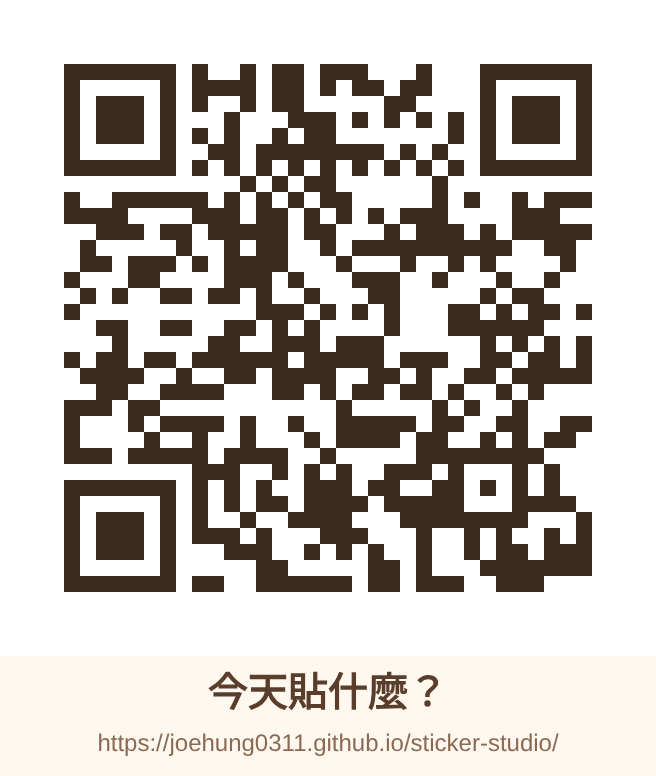
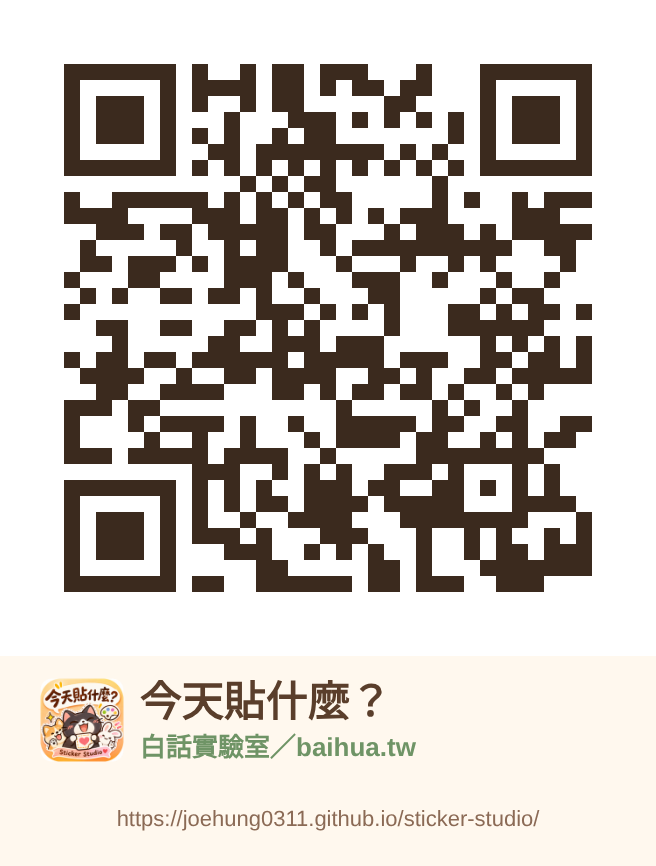
v1.1.2: 品牌標示統一為「白話實驗室／baihua.tw」
Claude-Session: https://claude.ai/code/session_01PSwew9uGDS18EkNQb43D9u

diff --git a/js/views.js b/js/views.js
@@ -24,6 +24,7 @@
           <h1>今天貼什麼？</h1>
           <p class="hero-en">Sticker Studio</p>
           <p class="slogan">生活有百種心情，貼圖不必只有一種。</p>
+          <p class="brand-by">白話實驗室 出品・baihua.tw</p>
         </div>
       </section>
       <div class="flow" aria-label="創作流程">
@@ -522,7 +523,7 @@
         <p class="slogan">生活有百種心情，貼圖不必只有一種。</p></div>
       <div class="card"><p>讓不會畫畫、不懂設計的人，也能輕鬆規劃、生成及加工個人專屬聊天貼圖。</p>
         <p>本 App 負責「規劃」與「加工」：幫你把想法整理成清楚的 AI 生圖提示詞，再把生成的圖片裁切、加字、去背、切成 LINE 貼圖尺寸。</p>
-        <p>品牌：白話實驗室（baihua.tw）</p>
+        <p>出品：<b>白話實驗室／baihua.tw</b></p>
         <p class="muted small">使用的開源套件：JSZip（MIT 授權）、qrcode-generator（MIT 授權），皆已內建，不需連線外部服務。</p></div>`;
     }
   };
@@ -550,7 +551,7 @@
         <li>照片變貼圖、原創角色、8 種畫風＋自訂畫風</li><li>64 句生活用語、貼圖盲盒（可鎖定）</li>
         <li>整套企劃 1～40 張、TXT／CSV／JSON 匯出、宮格提示詞</li><li>貼圖加工室：裁切、縮放、旋轉、翻轉、加字、單色去背、PNG 輸出</li>
         <li>LINE 工具：宮格切圖、ZIP 打包、尺寸調整、主圖與標籤圖、規格檢查</li><li>收藏管理、備份匯出匯入、PWA 離線使用、QR Code 分享</li></ul>
-        <p class="muted small">Made by baihua</p></div>`;
+        <p class="muted small">Made by 白話實驗室／baihua.tw</p></div>`;
     }
   };
   SS.views.share = {

diff --git a/index.html b/index.html
@@ -8,6 +8,8 @@
 <meta name="theme-color" content="#FFF8EE">
 <meta property="og:title" content="今天貼什麼？AI 貼圖製造機">
 <meta property="og:description" content="生活有百種心情，貼圖不必只有一種。">
+<meta property="og:site_name" content="白話實驗室／baihua.tw">
+<meta name="author" content="白話實驗室／baihua.tw">
 <meta property="og:image" content="assets/icons/icon-512.png">
 <link rel="manifest" href="manifest.webmanifest">
 <link rel="icon" type="image/png" sizes="32x32" href="assets/icons/icon-32.png">
@@ -28,8 +30,8 @@
 </header>
 <main id="view" class="view" tabindex="-1"></main>
 <footer class="footer">
-  <p>今天貼什麼？ Sticker Studio v1.1.1</p>
-  <p>Made by baihua・<a href="#privacy">隱私權</a>・<a href="#about">關於</a></p>
+  <p>今天貼什麼？ Sticker Studio v1.1.2</p>
+  <p>Made by 白話實驗室／baihua.tw・<a href="#privacy">隱私權</a>・<a href="#about">關於</a></p>
 </footer>
 <div id="update-bar" class="update-bar" hidden>有新版本 🎉 <button id="update-btn" class="btn sm primary">立即更新</button></div>
 <div id="modal" class="modal" hidden role="dialog" aria-modal="true"><div class="modal-card"><button class="modal-close" aria-label="關閉">✕</button><div id="modal-body"></div></div></div>

diff --git a/css/style.css b/css/style.css
@@ -324,3 +324,4 @@ details p { margin: 4px 0 10px; color: var(--brown-l); }
 .install-cta b { display: block; font-size: 1.08rem; }
 .install-cta small { opacity: .95; }
 .install-cta i { font-style: normal; margin-left: auto; background: #fff; color: var(--peach-d); font-weight: 800; border-radius: 999px; padding: 6px 14px; white-space: nowrap; }
+.brand-by { margin: 6px 0 0; font-size: .82rem; font-weight: 700; color: var(--sage-d); letter-spacing: .04em; }

diff --git a/js/data.js b/js/data.js
@@ -1,7 +1,7 @@
-/* 今天貼什麼？ Sticker Studio — 內建資料 (Made by baihua) */
+/* 今天貼什麼？ Sticker Studio — 內建資料 (Made by 白話實驗室／baihua.tw) */
 window.SS = window.SS || {};
 
-SS.VERSION = '1.1.1';
+SS.VERSION = '1.1.2';
 
 SS.LINKS = {
   chatgpt: 'https://chatgpt.com/',

diff --git a/sw.js b/sw.js
@@ -1,5 +1,5 @@
 /* 今天貼什麼？ Service Worker — 更新版本時請修改 VERSION */
-const VERSION = 'v1.1.1';
+const VERSION = 'v1.1.2';
 const CACHE = 'sticker-studio-' + VERSION;
 const ASSETS = [
   './', './index.html', './manifest.webmanifest', './css/style.css',

diff --git a/README.md b/README.md
@@ -1,9 +1,9 @@
-# 今天貼什麼？ Sticker Studio v1.1.0
+# 今天貼什麼？ Sticker Studio v1.1.2
 
 > 生活有百種心情，貼圖不必只有一種。
 
 讓不會畫畫、不懂設計的人，也能輕鬆規劃、生成及加工個人專屬聊天貼圖的繁體中文 Web App。
-品牌：白話實驗室（baihua.tw）・Made by baihua
+品牌：白話實驗室／baihua.tw
 
 - 不用註冊、不用登入、不用 API Key、不用付費
 - 照片與圖片只在使用者的瀏覽器處理，不會上傳

diff --git a/CHANGELOG.md b/CHANGELOG.md
@@ -2,6 +2,11 @@
 
 格式：`版本｜日期｜內容`。每次更新請同步修改 `sw.js` 的 `VERSION`。
 
+## v1.1.2｜2026-11-26｜品牌標示
+
+### 修改
+- 品牌標示統一為「白話實驗室／baihua.tw」：首頁、頁尾、關於、版本資訊、App 描述、分享卡片資訊、QR Code 圖卡
+
 ## v1.1.1｜2026-11-26｜首頁安裝按鈕
 
 ### 新增

diff --git a/docs/CLASS-PRESENTATION.md b/docs/CLASS-PRESENTATION.md
@@ -1,7 +1,7 @@
 # 課堂作業專案簡介｜今天貼什麼？ Sticker Studio
 
 ## App 名稱
-**今天貼什麼？**（Sticker Studio）v1.1.0・品牌：白話實驗室 baihua
+**今天貼什麼？**（Sticker Studio）v1.1.2・品牌：白話實驗室／baihua.tw
 標語：生活有百種心情，貼圖不必只有一種。
 
 ## 開發動機
